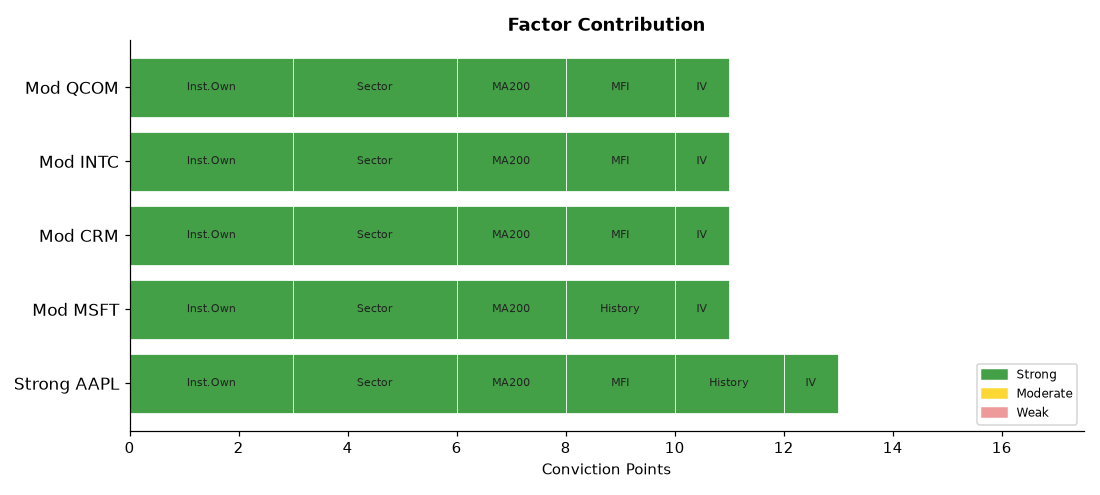
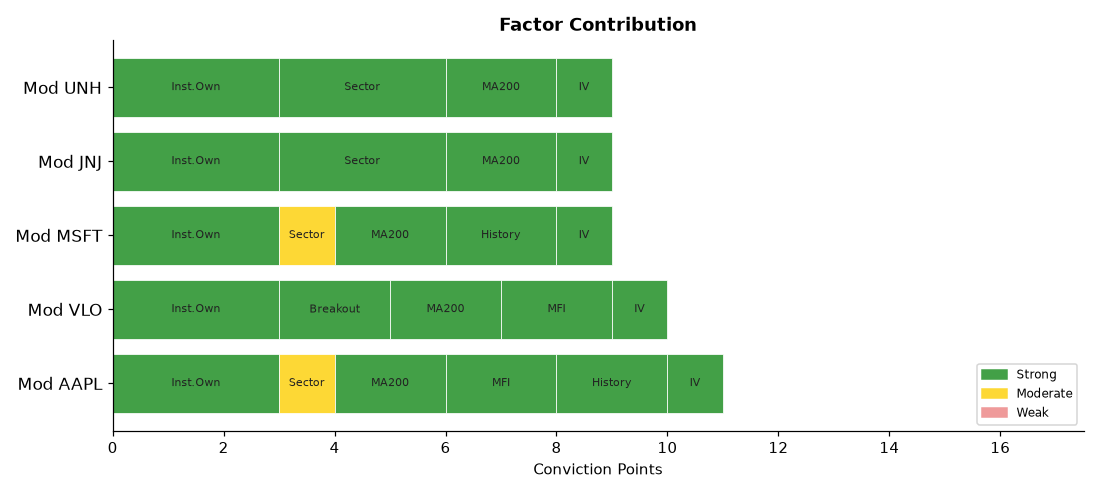
deploy: b7fadf5b06deb90e7ebb92f278722414bdd9750d

diff --git a/index.html b/index.html
@@ -4,7 +4,7 @@
   <meta charset="UTF-8">
   <meta name="viewport" content="width=device-width,initial-scale=1">
   <meta http-equiv="Cache-Control" content="no-cache,no-store,must-revalidate">
-  <title>Stock Breakout Screener — 2026-09-16 18:18</title>
+  <title>Stock Breakout Screener — 2026-09-16 19:56</title>
   <style>
     *{box-sizing:border-box;margin:0;padding:0}
     body{font-family:'Segoe UI',Arial,sans-serif;background:#f0f2f5;
@@ -34,20 +34,20 @@
 
 <div class="hdr">
   <h1>📈 Stock Breakout Screener</h1>
-  <p>Updated: 2026-09-16 18:18 UTC &nbsp;·&nbsp; Phase: Regular Market Hours &nbsp;·&nbsp;
+  <p>Updated: 2026-09-16 19:56 UTC &nbsp;·&nbsp; Phase: Regular Market Hours &nbsp;·&nbsp;
      129 stocks screened &nbsp;·&nbsp; Top 5 by conviction score</p>
 </div>
 
 <div class="card">
   <strong style="font-size:14px">Market Sentiment: 🐻 Bearish</strong>
   <div class="bar-wrap" style="margin-top:10px">
-    <div style="width:1%;background:#43a047"></div>
-    <div style="width:7%;background:#fdd835"></div>
+    <div style="width:0%;background:#43a047"></div>
+    <div style="width:8%;background:#fdd835"></div>
     <div style="width:92%;background:#e53935"></div>
   </div>
   <div style="font-size:12px;color:#555">
-    🟢 Strong 1% &nbsp;
-    🟡 Moderate 7% &nbsp;
+    🟢 Strong 0% &nbsp;
+    🟡 Moderate 8% &nbsp;
     🔴 Weak 92%
   </div>
 </div>
@@ -59,17 +59,17 @@
                     box-shadow:0 2px 6px rgba(0,0,0,.07)">
           <div style="display:flex;align-items:center;gap:10px;
                       flex-wrap:wrap;margin-bottom:10px">
-            <span style="font-size:22px">🟢</span>
+            <span style="font-size:22px">🟡</span>
             <span style="font-size:19px;font-weight:700">1. AAPL</span>
             <span style="font-size:12px;color:#666">Technology</span>
             <span style="margin-left:auto;background:#1a237e;color:#fff;
                          padding:3px 12px;border-radius:12px;
                          font-size:13px;font-weight:600">
-              13/17
+              11/17
             </span>
           </div>
           <ul style="margin:0;padding-left:18px;font-size:13px;
-                     color:#333;line-height:1.8"><li style="margin:5px 0"><span style="background:#ffebee;color:#b71c1c;padding:2px 7px;border-radius:4px;font-size:11px;">❌</span> Volume: <b>0.3× average</b> — Above-average activity</li><li style="margin:5px 0"><span style="background:#ffebee;color:#b71c1c;padding:2px 7px;border-radius:4px;font-size:11px;">❌</span> Candle: close <b>$334.68</b> vs open <b>$332.42</b> (+0.7%) — regular market close</li><li style="margin:5px 0"><span style="background:#e8f5e9;color:#2e7d32;padding:2px 7px;border-radius:4px;font-size:11px;">✅</span> 200-Day MA: price <b>$334.68</b> vs MA <b>$296.12</b> — <b>✅ Above</b> long-term trend</li><li style="margin:5px 0"><span style="background:#e8f5e9;color:#2e7d32;padding:2px 7px;border-radius:4px;font-size:11px;">✅</span> Inst. ownership: <b>66.3%</b> · MFI: <b>64.0</b> · Market cap: <b>$4883.7B</b></li><li style="margin:5px 0"><span style="background:#e8f5e9;color:#2e7d32;padding:2px 7px;border-radius:4px;font-size:11px;">✅</span> Last similar breakout: <b>Jun 26, 2026</b> → <b>+11.8%</b> over 10 trading days</li></ul>
+                     color:#333;line-height:1.8"><li style="margin:5px 0"><span style="background:#ffebee;color:#b71c1c;padding:2px 7px;border-radius:4px;font-size:11px;">❌</span> Volume: <b>0.5× average</b> — Above-average activity</li><li style="margin:5px 0"><span style="background:#ffebee;color:#b71c1c;padding:2px 7px;border-radius:4px;font-size:11px;">❌</span> Candle: close <b>$332.29</b> vs open <b>$332.42</b> (-0.0%) — regular market close</li><li style="margin:5px 0"><span style="background:#e8f5e9;color:#2e7d32;padding:2px 7px;border-radius:4px;font-size:11px;">✅</span> 200-Day MA: price <b>$332.29</b> vs MA <b>$296.10</b> — <b>✅ Above</b> long-term trend</li><li style="margin:5px 0"><span style="background:#e8f5e9;color:#2e7d32;padding:2px 7px;border-radius:4px;font-size:11px;">✅</span> Inst. ownership: <b>66.3%</b> · MFI: <b>64.4</b> · Market cap: <b>$4849.9B</b></li><li style="margin:5px 0"><span style="background:#e8f5e9;color:#2e7d32;padding:2px 7px;border-radius:4px;font-size:11px;">✅</span> Last similar breakout: <b>Jun 26, 2026</b> → <b>+11.8%</b> over 10 trading days</li></ul>
         </div>
         <div style="background:#fff;border:1px solid #ddd;border-radius:10px;
                     padding:16px 20px;margin-bottom:12px;
@@ -77,16 +77,16 @@
           <div style="display:flex;align-items:center;gap:10px;
                       flex-wrap:wrap;margin-bottom:10px">
             <span style="font-size:22px">🟡</span>
-            <span style="font-size:19px;font-weight:700">2. MSFT</span>
-            <span style="font-size:12px;color:#666">Technology</span>
+            <span style="font-size:19px;font-weight:700">2. VLO</span>
+            <span style="font-size:12px;color:#666">Energy</span>
             <span style="margin-left:auto;background:#1a237e;color:#fff;
                          padding:3px 12px;border-radius:12px;
                          font-size:13px;font-weight:600">
-              11/17
+              10/17
             </span>
           </div>
           <ul style="margin:0;padding-left:18px;font-size:13px;
-                     color:#333;line-height:1.8"><li style="margin:5px 0"><span style="background:#ffebee;color:#b71c1c;padding:2px 7px;border-radius:4px;font-size:11px;">❌</span> Volume: <b>0.2× average</b> — Above-average activity</li><li style="margin:5px 0"><span style="background:#ffebee;color:#b71c1c;padding:2px 7px;border-radius:4px;font-size:11px;">❌</span> Candle: close <b>$493.62</b> vs open <b>$493.17</b> (+0.1%) — regular market close</li><li style="margin:5px 0"><span style="background:#e8f5e9;color:#2e7d32;padding:2px 7px;border-radius:4px;font-size:11px;">✅</span> 200-Day MA: price <b>$493.62</b> vs MA <b>$422.38</b> — <b>✅ Above</b> long-term trend</li><li style="margin:5px 0"><span style="background:#e8f5e9;color:#2e7d32;padding:2px 7px;border-radius:4px;font-size:11px;">✅</span> Inst. ownership: <b>75.8%</b> · MFI: <b>43.9</b> · Market cap: <b>$3664.9B</b></li><li style="margin:5px 0"><span style="background:#e8f5e9;color:#2e7d32;padding:2px 7px;border-radius:4px;font-size:11px;">✅</span> Last similar breakout: <b>Jul 30, 2026</b> → <b>+10.1%</b> over 10 trading days</li></ul>
+                     color:#333;line-height:1.8"><li style="margin:5px 0"><span style="background:#ffebee;color:#b71c1c;padding:2px 7px;border-radius:4px;font-size:11px;">❌</span> Volume: <b>0.9× average</b> — Above-average activity</li><li style="margin:5px 0"><span style="background:#e8f5e9;color:#2e7d32;padding:2px 7px;border-radius:4px;font-size:11px;">✅</span> Candle: close <b>$403.98</b> vs open <b>$391.68</b> (+3.1%) — regular market close</li><li style="margin:5px 0"><span style="background:#e8f5e9;color:#2e7d32;padding:2px 7px;border-radius:4px;font-size:11px;">✅</span> 200-Day MA: price <b>$403.98</b> vs MA <b>$279.03</b> — <b>✅ Above</b> long-term trend</li><li style="margin:5px 0"><span style="background:#e8f5e9;color:#2e7d32;padding:2px 7px;border-radius:4px;font-size:11px;">✅</span> Inst. ownership: <b>87.0%</b> · MFI: <b>81.5</b> · Market cap: <b>$116.3B</b></li></ul>
         </div>
         <div style="background:#fff;border:1px solid #ddd;border-radius:10px;
                     padding:16px 20px;margin-bottom:12px;
@@ -94,16 +94,16 @@
           <div style="display:flex;align-items:center;gap:10px;
                       flex-wrap:wrap;margin-bottom:10px">
             <span style="font-size:22px">🟡</span>
-            <span style="font-size:19px;font-weight:700">3. CRM</span>
+            <span style="font-size:19px;font-weight:700">3. MSFT</span>
             <span style="font-size:12px;color:#666">Technology</span>
             <span style="margin-left:auto;background:#1a237e;color:#fff;
                          padding:3px 12px;border-radius:12px;
                          font-size:13px;font-weight:600">
-              11/17
+              9/17
             </span>
           </div>
           <ul style="margin:0;padding-left:18px;font-size:13px;
-                     color:#333;line-height:1.8"><li style="margin:5px 0"><span style="background:#ffebee;color:#b71c1c;padding:2px 7px;border-radius:4px;font-size:11px;">❌</span> Volume: <b>0.3× average</b> — Above-average activity</li><li style="margin:5px 0"><span style="background:#ffebee;color:#b71c1c;padding:2px 7px;border-radius:4px;font-size:11px;">❌</span> Candle: close <b>$252.21</b> vs open <b>$251.85</b> (+0.1%) — regular market close</li><li style="margin:5px 0"><span style="background:#e8f5e9;color:#2e7d32;padding:2px 7px;border-radius:4px;font-size:11px;">✅</span> 200-Day MA: price <b>$252.21</b> vs MA <b>$187.51</b> — <b>✅ Above</b> long-term trend</li><li style="margin:5px 0"><span style="background:#e8f5e9;color:#2e7d32;padding:2px 7px;border-radius:4px;font-size:11px;">✅</span> Inst. ownership: <b>87.5%</b> · MFI: <b>77.9</b> · Market cap: <b>$207.6B</b></li><li style="margin:5px 0"><span style="background:#ffebee;color:#b71c1c;padding:2px 7px;border-radius:4px;font-size:11px;">❌</span> Last similar breakout: <b>Aug 27, 2026</b> → <b>-1.7%</b> over 10 trading days</li></ul>
+                     color:#333;line-height:1.8"><li style="margin:5px 0"><span style="background:#ffebee;color:#b71c1c;padding:2px 7px;border-radius:4px;font-size:11px;">❌</span> Volume: <b>0.3× average</b> — Above-average activity</li><li style="margin:5px 0"><span style="background:#ffebee;color:#b71c1c;padding:2px 7px;border-radius:4px;font-size:11px;">❌</span> Candle: close <b>$489.75</b> vs open <b>$493.17</b> (-0.7%) — regular market close</li><li style="margin:5px 0"><span style="background:#e8f5e9;color:#2e7d32;padding:2px 7px;border-radius:4px;font-size:11px;">✅</span> 200-Day MA: price <b>$489.75</b> vs MA <b>$422.35</b> — <b>✅ Above</b> long-term trend</li><li style="margin:5px 0"><span style="background:#e8f5e9;color:#2e7d32;padding:2px 7px;border-radius:4px;font-size:11px;">✅</span> Inst. ownership: <b>75.8%</b> · MFI: <b>43.3</b> · Market cap: <b>$3637.6B</b></li><li style="margin:5px 0"><span style="background:#e8f5e9;color:#2e7d32;padding:2px 7px;border-radius:4px;font-size:11px;">✅</span> Last similar breakout: <b>Jul 30, 2026</b> → <b>+10.1%</b> over 10 trading days</li></ul>
         </div>
         <div style="background:#fff;border:1px solid #ddd;border-radius:10px;
                     padding:16px 20px;margin-bottom:12px;
@@ -111,16 +111,16 @@
           <div style="display:flex;align-items:center;gap:10px;
                       flex-wrap:wrap;margin-bottom:10px">
             <span style="font-size:22px">🟡</span>
-            <span style="font-size:19px;font-weight:700">4. INTC</span>
-            <span style="font-size:12px;color:#666">Technology</span>
+            <span style="font-size:19px;font-weight:700">4. JNJ</span>
+            <span style="font-size:12px;color:#666">Healthcare</span>
             <span style="margin-left:auto;background:#1a237e;color:#fff;
                          padding:3px 12px;border-radius:12px;
                          font-size:13px;font-weight:600">
-              11/17
+              9/17
             </span>
           </div>
           <ul style="margin:0;padding-left:18px;font-size:13px;
-                     color:#333;line-height:1.8"><li style="margin:5px 0"><span style="background:#ffebee;color:#b71c1c;padding:2px 7px;border-radius:4px;font-size:11px;">❌</span> Volume: <b>0.6× average</b> — Above-average activity</li><li style="margin:5px 0"><span style="background:#ffebee;color:#b71c1c;padding:2px 7px;border-radius:4px;font-size:11px;">❌</span> Candle: close <b>$102.24</b> vs open <b>$101.40</b> (+0.8%) — regular market close</li><li style="margin:5px 0"><span style="background:#e8f5e9;color:#2e7d32;padding:2px 7px;border-radius:4px;font-size:11px;">✅</span> 200-Day MA: price <b>$102.24</b> vs MA <b>$94.87</b> — <b>✅ Above</b> long-term trend</li><li style="margin:5px 0"><span style="background:#e8f5e9;color:#2e7d32;padding:2px 7px;border-radius:4px;font-size:11px;">✅</span> Inst. ownership: <b>62.5%</b> · MFI: <b>67.3</b> · Market cap: <b>$540.3B</b></li></ul>
+                     color:#333;line-height:1.8"><li style="margin:5px 0"><span style="background:#ffebee;color:#b71c1c;padding:2px 7px;border-radius:4px;font-size:11px;">❌</span> Volume: <b>0.4× average</b> — Above-average activity</li><li style="margin:5px 0"><span style="background:#ffebee;color:#b71c1c;padding:2px 7px;border-radius:4px;font-size:11px;">❌</span> Candle: close <b>$267.82</b> vs open <b>$266.81</b> (+0.4%) — regular market close</li><li style="margin:5px 0"><span style="background:#e8f5e9;color:#2e7d32;padding:2px 7px;border-radius:4px;font-size:11px;">✅</span> 200-Day MA: price <b>$267.82</b> vs MA <b>$244.61</b> — <b>✅ Above</b> long-term trend</li><li style="margin:5px 0"><span style="background:#e8f5e9;color:#2e7d32;padding:2px 7px;border-radius:4px;font-size:11px;">✅</span> Inst. ownership: <b>76.7%</b> · MFI: <b>41.1</b> · Market cap: <b>$645.6B</b></li></ul>
         </div>
         <div style="background:#fff;border:1px solid #ddd;border-radius:10px;
                     padding:16px 20px;margin-bottom:12px;
@@ -128,16 +128,16 @@
           <div style="display:flex;align-items:center;gap:10px;
                       flex-wrap:wrap;margin-bottom:10px">
             <span style="font-size:22px">🟡</span>
-            <span style="font-size:19px;font-weight:700">5. QCOM</span>
-            <span style="font-size:12px;color:#666">Technology</span>
+            <span style="font-size:19px;font-weight:700">5. UNH</span>
+            <span style="font-size:12px;color:#666">Healthcare</span>
             <span style="margin-left:auto;background:#1a237e;color:#fff;
                          padding:3px 12px;border-radius:12px;
                          font-size:13px;font-weight:600">
-              11/17
+              9/17
             </span>
           </div>
           <ul style="margin:0;padding-left:18px;font-size:13px;
-                     color:#333;line-height:1.8"><li style="margin:5px 0"><span style="background:#ffebee;color:#b71c1c;padding:2px 7px;border-radius:4px;font-size:11px;">❌</span> Volume: <b>0.3× average</b> — Above-average activity</li><li style="margin:5px 0"><span style="background:#ffebee;color:#b71c1c;padding:2px 7px;border-radius:4px;font-size:11px;">❌</span> Candle: close <b>$187.52</b> vs open <b>$189.29</b> (-0.9%) — regular market close</li><li style="margin:5px 0"><span style="background:#e8f5e9;color:#2e7d32;padding:2px 7px;border-radius:4px;font-size:11px;">✅</span> 200-Day MA: price <b>$187.52</b> vs MA <b>$173.19</b> — <b>✅ Above</b> long-term trend</li><li style="margin:5px 0"><span style="background:#e8f5e9;color:#2e7d32;padding:2px 7px;border-radius:4px;font-size:11px;">✅</span> Inst. ownership: <b>83.1%</b> · MFI: <b>72.9</b> · Market cap: <b>$200.2B</b></li></ul>
+                     color:#333;line-height:1.8"><li style="margin:5px 0"><span style="background:#ffebee;color:#b71c1c;padding:2px 7px;border-radius:4px;font-size:11px;">❌</span> Volume: <b>0.4× average</b> — Above-average activity</li><li style="margin:5px 0"><span style="background:#ffebee;color:#b71c1c;padding:2px 7px;border-radius:4px;font-size:11px;">❌</span> Candle: close <b>$375.59</b> vs open <b>$375.90</b> (-0.1%) — regular market close</li><li style="margin:5px 0"><span style="background:#e8f5e9;color:#2e7d32;padding:2px 7px;border-radius:4px;font-size:11px;">✅</span> 200-Day MA: price <b>$375.59</b> vs MA <b>$374.02</b> — <b>✅ Above</b> long-term trend</li><li style="margin:5px 0"><span style="background:#e8f5e9;color:#2e7d32;padding:2px 7px;border-radius:4px;font-size:11px;">✅</span> Inst. ownership: <b>89.7%</b> · MFI: <b>35.7</b> · Market cap: <b>$337.1B</b></li></ul>
         </div>
 
 
@@ -168,93 +168,93 @@
   
         <tr>
           <td style="font-weight:700;text-align:left;padding-left:10px">
-            🟢 AAPL</td>
-          <td style="background:#ffcdd2">0.3×</td>
-          <td style="background:#ffcdd2">+0.7%</td>
+            🟡 AAPL</td>
+          <td style="background:#ffcdd2">0.5×</td>
+          <td style="background:#ffcdd2">-0.0%</td>
           <td style="background:#c8e6c9">
             ▲ Above</td>
           <td style="background:#c8e6c9">
             66.3%</td>
           <td style="background:#c8e6c9">
-            64.0</td>
-          <td style="background:#c8e6c9">Technology</td>
+            64.4</td>
+          <td style="background:#fff9c4">Technology</td>
           <td style="background:#c8e6c9">
-            66.3%</td>
+            89.3%</td>
           <td style="background:#c8e6c9">
             +11.8%</td>
-          <td style="font-weight:800;font-size:15px">13/17</td>
+          <td style="font-weight:800;font-size:15px">11/17</td>
+        </tr>
+        <tr>
+          <td style="font-weight:700;text-align:left;padding-left:10px">
+            🟡 VLO</td>
+          <td style="background:#ffcdd2">0.9×</td>
+          <td style="background:#c8e6c9">+3.1%</td>
+          <td style="background:#c8e6c9">
+            ▲ Above</td>
+          <td style="background:#c8e6c9">
+            87.0%</td>
+          <td style="background:#c8e6c9">
+            81.5</td>
+          <td style="background:#ffcdd2">Energy</td>
+          <td style="background:#c8e6c9">
+            175.5%</td>
+          <td style="background:#ffcdd2">
+            N/A</td>
+          <td style="font-weight:800;font-size:15px">10/17</td>
         </tr>
         <tr>
           <td style="font-weight:700;text-align:left;padding-left:10px">
             🟡 MSFT</td>
-          <td style="background:#ffcdd2">0.2×</td>
-          <td style="background:#ffcdd2">+0.1%</td>
+          <td style="background:#ffcdd2">0.3×</td>
+          <td style="background:#ffcdd2">-0.7%</td>
           <td style="background:#c8e6c9">
             ▲ Above</td>
           <td style="background:#c8e6c9">
             75.8%</td>
           <td style="background:#ffcdd2">
-            43.9</td>
-          <td style="background:#c8e6c9">Technology</td>
+            43.3</td>
+          <td style="background:#fff9c4">Technology</td>
           <td style="background:#c8e6c9">
-            66.3%</td>
+            31.8%</td>
           <td style="background:#c8e6c9">
             +10.1%</td>
-          <td style="font-weight:800;font-size:15px">11/17</td>
+          <td style="font-weight:800;font-size:15px">9/17</td>
         </tr>
         <tr>
           <td style="font-weight:700;text-align:left;padding-left:10px">
-            🟡 CRM</td>
-          <td style="background:#ffcdd2">0.3×</td>
-          <td style="background:#ffcdd2">+0.1%</td>
+            🟡 JNJ</td>
+          <td style="background:#ffcdd2">0.4×</td>
+          <td style="background:#ffcdd2">+0.4%</td>
           <td style="background:#c8e6c9">
             ▲ Above</td>
           <td style="background:#c8e6c9">
-            87.5%</td>
-          <td style="background:#c8e6c9">
-            77.9</td>
-          <td style="background:#c8e6c9">Technology</td>
-          <td style="background:#c8e6c9">
-            119.0%</td>
+            76.7%</td>
           <td style="background:#ffcdd2">
-            -1.7%</td>
-          <td style="font-weight:800;font-size:15px">11/17</td>
-        </tr>
-        <tr>
-          <td style="font-weight:700;text-align:left;padding-left:10px">
-            🟡 INTC</td>
-          <td style="background:#ffcdd2">0.6×</td>
-          <td style="background:#ffcdd2">+0.8%</td>
+            41.1</td>
+          <td style="background:#c8e6c9">Healthcare</td>
           <td style="background:#c8e6c9">
-            ▲ Above</td>
-          <td style="background:#c8e6c9">
-            62.5%</td>
-          <td style="background:#c8e6c9">
-            67.3</td>
-          <td style="background:#c8e6c9">Technology</td>
-          <td style="background:#c8e6c9">
-            55.6%</td>
+            180.5%</td>
           <td style="background:#ffcdd2">
             N/A</td>
-          <td style="font-weight:800;font-size:15px">11/17</td>
+          <td style="font-weight:800;font-size:15px">9/17</td>
         </tr>
         <tr>
           <td style="font-weight:700;text-align:left;padding-left:10px">
-            🟡 QCOM</td>
-          <td style="background:#ffcdd2">0.3×</td>
-          <td style="background:#ffcdd2">-0.9%</td>
+            🟡 UNH</td>
+          <td style="background:#ffcdd2">0.4×</td>
+          <td style="background:#ffcdd2">-0.1%</td>
           <td style="background:#c8e6c9">
             ▲ Above</td>
           <td style="background:#c8e6c9">
-            83.1%</td>
+            89.7%</td>
+          <td style="background:#ffcdd2">
+            35.7</td>
+          <td style="background:#c8e6c9">Healthcare</td>
           <td style="background:#c8e6c9">
-            72.9</td>
-          <td style="background:#c8e6c9">Technology</td>
-          <td style="background:#c8e6c9">
-            198.0%</td>
+            198.9%</td>
           <td style="background:#ffcdd2">
             N/A</td>
-          <td style="font-weight:800;font-size:15px">11/17</td>
+          <td style="font-weight:800;font-size:15px">9/17</td>
         </tr>
 </table>
 </div>
@@ -277,58 +277,58 @@
       
         <tr>
           <td style="text-align:left;padding-left:10px;font-weight:600">
-            #1 Technology</td>
-          <td style="background:#e8f5e9;color:#2e7d32;font-weight:700">+1.01%</td>
+            #1 Healthcare</td>
+          <td style="background:#e8f5e9;color:#2e7d32;font-weight:700">+0.15%</td>
         </tr>
         <tr>
           <td style="text-align:left;padding-left:10px;font-weight:600">
-            #2 Industrials</td>
-          <td style="background:#e8f5e9;color:#2e7d32;font-weight:700">+0.56%</td>
+            #2 Utilities</td>
+          <td style="background:#e8f5e9;color:#2e7d32;font-weight:700">+0.08%</td>
         </tr>
         <tr>
           <td style="text-align:left;padding-left:10px;font-weight:600">
-            #3 Healthcare</td>
-          <td style="background:#e8f5e9;color:#2e7d32;font-weight:700">+0.52%</td>
+            #3 Technology</td>
+          <td style="background:#e8f5e9;color:#2e7d32;font-weight:700">+0.03%</td>
         </tr>
         <tr>
           <td style="text-align:left;padding-left:10px;font-weight:600">
-            #4 Utilities</td>
-          <td style="background:#e8f5e9;color:#2e7d32;font-weight:700">+0.47%</td>
+            #4 Industrials</td>
+          <td style="background:#ffebee;color:#c62828;font-weight:700">-0.02%</td>
         </tr>
         <tr>
           <td style="text-align:left;padding-left:10px;font-weight:600">
             #5 Consumer Stpl</td>
-          <td style="background:#e8f5e9;color:#2e7d32;font-weight:700">+0.35%</td>
+          <td style="background:#ffebee;color:#c62828;font-weight:700">-0.29%</td>
         </tr>
         <tr>
           <td style="text-align:left;padding-left:10px;font-weight:600">
             #6 Real Estate</td>
-          <td style="background:#e8f5e9;color:#2e7d32;font-weight:700">+0.22%</td>
+          <td style="background:#ffebee;color:#c62828;font-weight:700">-0.55%</td>
         </tr>
         <tr>
           <td style="text-align:left;padding-left:10px;font-weight:600">
             #7 Consumer Disc</td>
-          <td style="background:#e8f5e9;color:#2e7d32;font-weight:700">+0.21%</td>
+          <td style="background:#ffebee;color:#c62828;font-weight:700">-0.61%</td>
         </tr>
         <tr>
           <td style="text-align:left;padding-left:10px;font-weight:600">
-            #8 Comm. Services</td>
-          <td style="background:#ffebee;color:#c62828;font-weight:700">-0.04%</td>
+            #8 Materials</td>
+          <td style="background:#ffebee;color:#c62828;font-weight:700">-0.69%</td>
         </tr>
         <tr>
           <td style="text-align:left;padding-left:10px;font-weight:600">
-            #9 Materials</td>
-          <td style="background:#ffebee;color:#c62828;font-weight:700">-0.08%</td>
+            #9 Comm. Services</td>
+          <td style="background:#ffebee;color:#c62828;font-weight:700">-0.93%</td>
         </tr>
         <tr>
           <td style="text-align:left;padding-left:10px;font-weight:600">
             #10 Financials</td>
-          <td style="background:#ffebee;color:#c62828;font-weight:700">-0.70%</td>
+          <td style="background:#ffebee;color:#c62828;font-weight:700">-1.59%</td>
         </tr>
         <tr>
           <td style="text-align:left;padding-left:10px;font-weight:600">
             #11 Energy</td>
-          <td style="background:#ffebee;color:#c62828;font-weight:700">-1.71%</td>
+          <td style="background:#ffebee;color:#c62828;font-weight:700">-2.80%</td>
         </tr>
     </table>
   </div>
@@ -367,7 +367,7 @@
         <li><b>Scoring weights:</b>
             Inst.Own(3) · Sector(3) · Volume(2) · Breakout(2) ·
             MA200(2) · MFI(2) · History(2) · IV(1) = 17pts max</li>
-        <li><b>Run time:</b> 2026-09-16 18:18 UTC — Market phase: Regular Market Hours</li>
+        <li><b>Run time:</b> 2026-09-16 19:56 UTC — Market phase: Regular Market Hours</li>
       </ul>
     </div>
 
